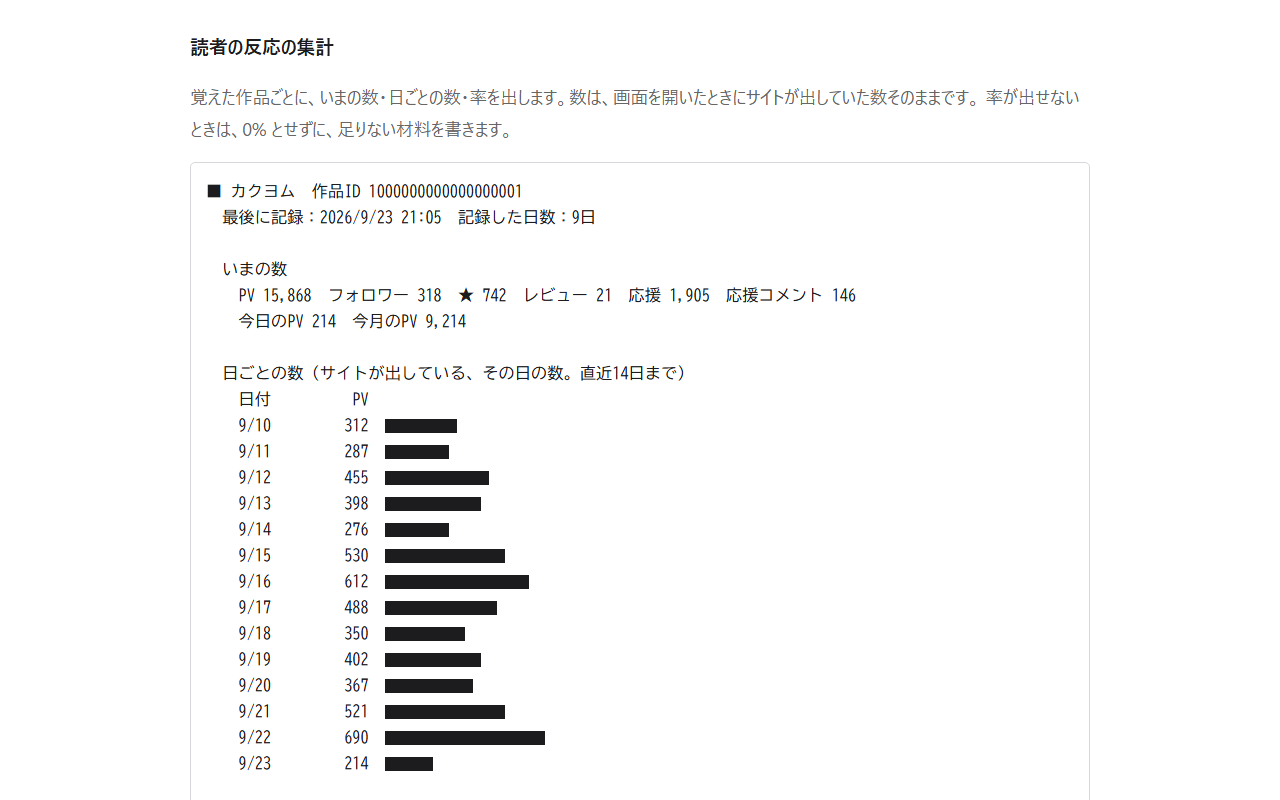
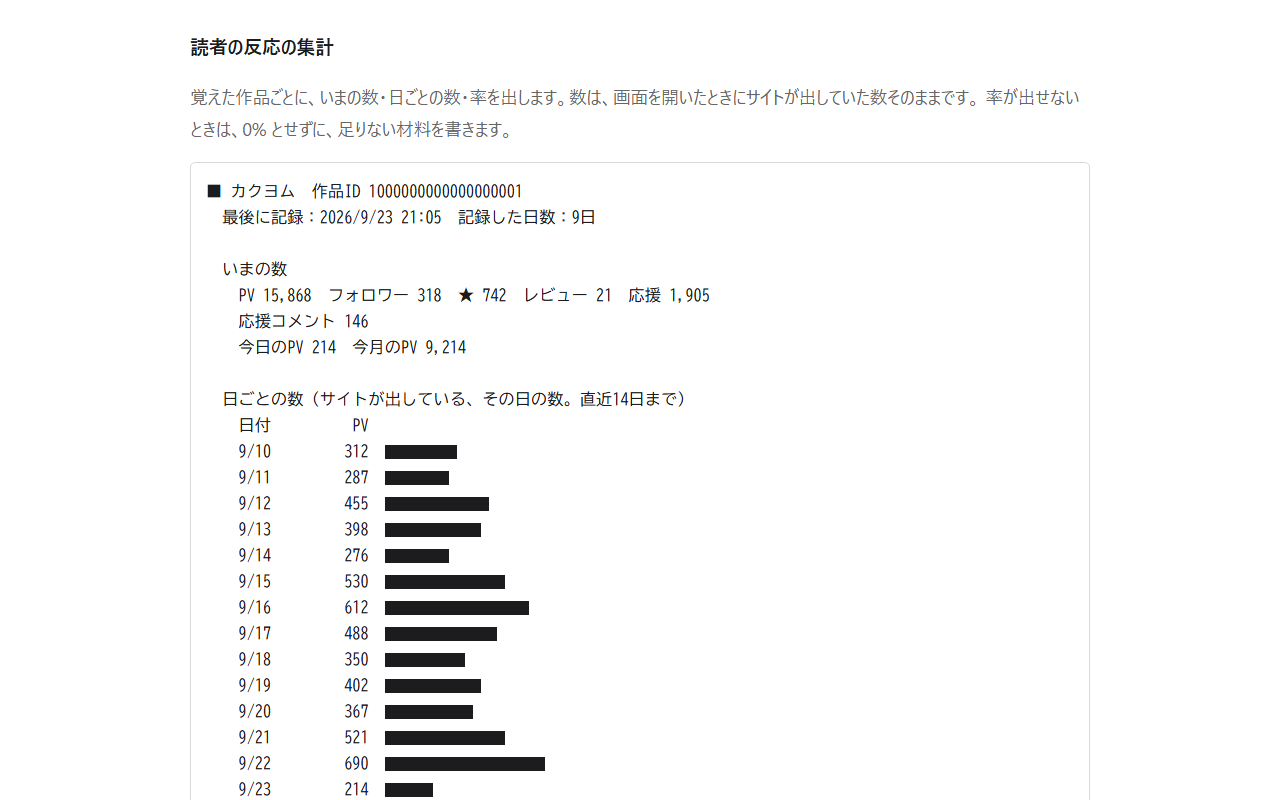
docs: ストアの提出の材料を 0.17.3 に揃え、画像を撮り直す

diff --git a/store/提出の手順.md b/store/提出の手順.md
@@ -3,7 +3,7 @@
 統合小説執筆環境ヘルパーを、Chrome ウェブストアへ初めて出すときの手順です。
 **送信・支払い・同意は、すべて作者が押します。** Claude は材料を揃えただけで、ダッシュボードには触れていません。
 
-- 出す版：**0.17.1**（manifest.json・package.json とも 0.17.1。2026-11-01）
+- 出す版：**0.17.3**（manifest.json・package.json とも 0.17.3。2026-11-01）
 - 2回目以降は GitHub Actions で出せます（`store/自動公開の準備.md`）。初回だけは、この手順で手で出します
 - ダッシュボードの画面の項目名は、Claude が画面で確かめていません（2026-11-01）。名前が少し違っていたら、いちばん近いものを選んでください
 
@@ -36,13 +36,13 @@ Set-Location C:\Users\nonah\Documents\novel-post-helper
 npm run pack
 ```
 
-`dist\novel-ai-helper-0.17.1.zip` ができます（36ファイル・約177KB）。中身は拡張の実行に要るファイルだけで、
+`dist\novel-ai-helper-0.17.3.zip` ができます（36ファイル・約178KB）。中身は拡張の実行に要るファイルだけで、
 テスト・文書・ストアの材料・node_modules は入りません（2026-11-01 に確かめた）。
 
 ## 3. 新しいアイテムとして ZIP を上げる
 
 1. ダッシュボードの［新しいアイテム］（＋ New item）
-2. 上の `dist\novel-ai-helper-0.17.1.zip` を選んで上げる
+2. 上の `dist\novel-ai-helper-0.17.3.zip` を選んで上げる
 3. 名前「統合小説執筆環境ヘルパー」と概要は manifest.json から自動で入ります（ダッシュボードでは直せません）
 
 ## 4. ［ストアの掲載情報］（Store listing）
@@ -60,7 +60,7 @@ npm run pack
 | サポートの URL | https://github.com/nonahisa/novel-ai-helper/issues |
 | 成人向けの内容 | いいえ |
 
-画像は 2026-11-01 に `npm run store:images` で作り直した（説明のページの版の札が v0.17.1）。写っているのは架空の作品
+画像は 2026-11-01 に `npm run store:images` で作り直した（説明のページの版の札が v0.17.3）。写っているのは架空の作品
 （作品ID `1000000000000000001`・Nコード `N0000AA`）の見本の数だけで、作者の作品名・作品ID は写っていません。
 
 ## 5. ［プライバシーへの取り組み］（Privacy practices）

diff --git a/store/listing.md b/store/listing.md
@@ -19,7 +19,7 @@ Chrome ウェブストアのデベロッパー ダッシュボード「ストア
 ご自分の作品の読者の反応（PV・ブックマーク・評価）を管理画面を開いたときに記録し、作品ごとに推移や離脱率を簡単に集計します。VS Code の「統合小説執筆環境」と一緒に使えば、原稿を投稿画面の欄へ入れることもできます。通信はしません。
 ```
 
-0.17.1 でもこの文のまま正しい（アルファポリス・タグ・公募は、下の詳しい説明に書いた）。
+0.17.3 でもこの文のまま正しい（アルファポリス・タグ・公募は、下の詳しい説明に書いた）。
 直すなら manifest.json を変えることになり、ZIP の中身が変わるので版を上げる（0.17.2）。2026-11-01 の提出の準備では直していない。
 
 ## カテゴリの候補

diff --git a/store/permissions.md b/store/permissions.md
@@ -1,7 +1,7 @@
 # 審査欄に貼る文（プライバシーへの取り組み）
 
 Chrome ウェブストアのデベロッパー ダッシュボード「プライバシーへの取り組み（Privacy practices）」の各欄へ貼る文です。
-manifest.json（0.17.1）の権限・入るページの範囲を**1つ残らず**挙げてあります。権限を足した・減らした日は、ここも直してください
+manifest.json（0.17.3）の権限・入るページの範囲を**1つ残らず**挙げてあります。権限を足した・減らした日は、ここも直してください
 （`test/redLine.test.js` の「権限は最小のまま」が、manifest の権限の並びを見張っています）。
 
 ---
